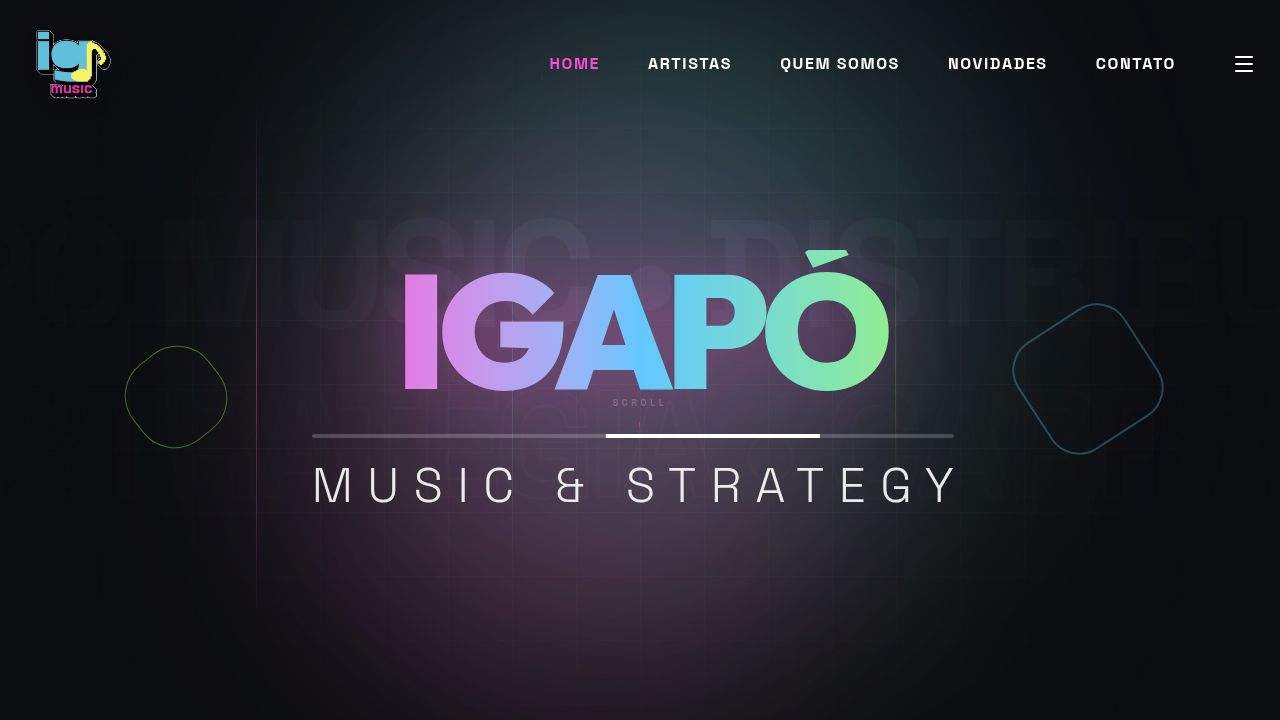
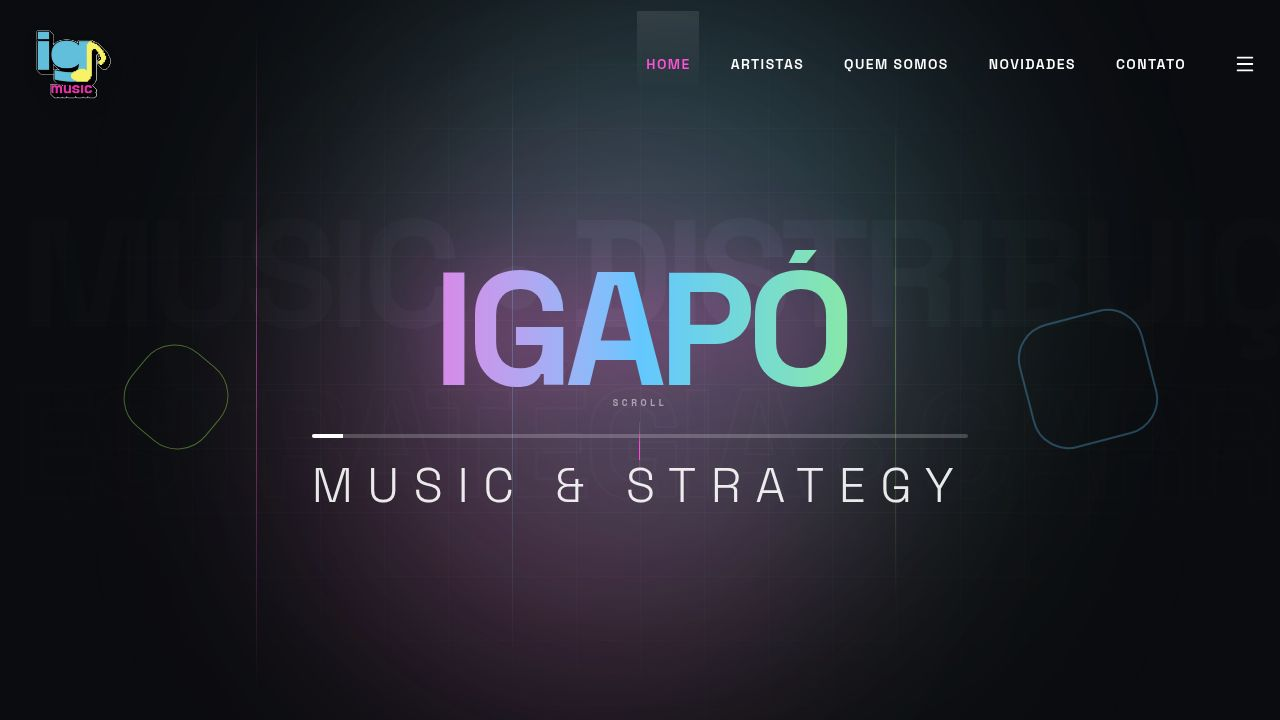
Add hover effect to navigation links for better user feedback
Update Navbar component to add a subtle translucent background effect on active and hovered navigation links, improving visual indication of the current page and user interaction.

Replit-Commit-Author: Agent
Replit-Commit-Session-Id: 3f80c9e4-4d96-45b9-aedd-cf89d76dc13b
Replit-Commit-Checkpoint-Type: full_checkpoint
Replit-Commit-Event-Id: 934311ac-4518-4868-8e5f-e9392372ec8c
Replit-Commit-Screenshot-Url: https://storage.googleapis.com/screenshot-production-us-central1/07a55d64-eac6-4b0b-8398-355f865719a0/3f80c9e4-4d96-45b9-aedd-cf89d76dc13b/RSgHBiz
Replit-Helium-Checkpoint-Created: true

diff --git a/client/src/components/layout/Navbar.tsx b/client/src/components/layout/Navbar.tsx
@@ -78,13 +78,13 @@ export function Navbar() {
               const isActive = location === link.href;
               return (
                 <Link key={link.label} href={link.href}>
-                  <span className={`relative text-sm font-semibold tracking-widest uppercase transition-colors cursor-pointer py-5 ${
+                  <span className={`relative text-sm font-semibold tracking-widest uppercase transition-colors cursor-pointer py-5 group ${
                     isActive 
                       ? "text-[#ff4bd8]" 
                       : "text-white hover:text-[#ff4bd8]"
                   }`}>
-                    {isActive && (
-                      <span className="absolute left-1/2 -translate-x-1/2 -top-6 w-[140%] h-[calc(100%+24px)] bg-gradient-to-b from-white/10 via-white/5 to-transparent pointer-events-none rounded-b-lg" />
+                    {(isActive || true) && (
+                      <span className={`absolute left-1/2 -translate-x-1/2 -top-6 w-[140%] h-[calc(100%+24px)] bg-gradient-to-b from-white/10 via-white/5 to-transparent pointer-events-none rounded-b-lg transition-opacity duration-300 ${isActive ? "opacity-100" : "opacity-0 group-hover:opacity-100"}`} />
                     )}
                     {link.label}
                   </span>
